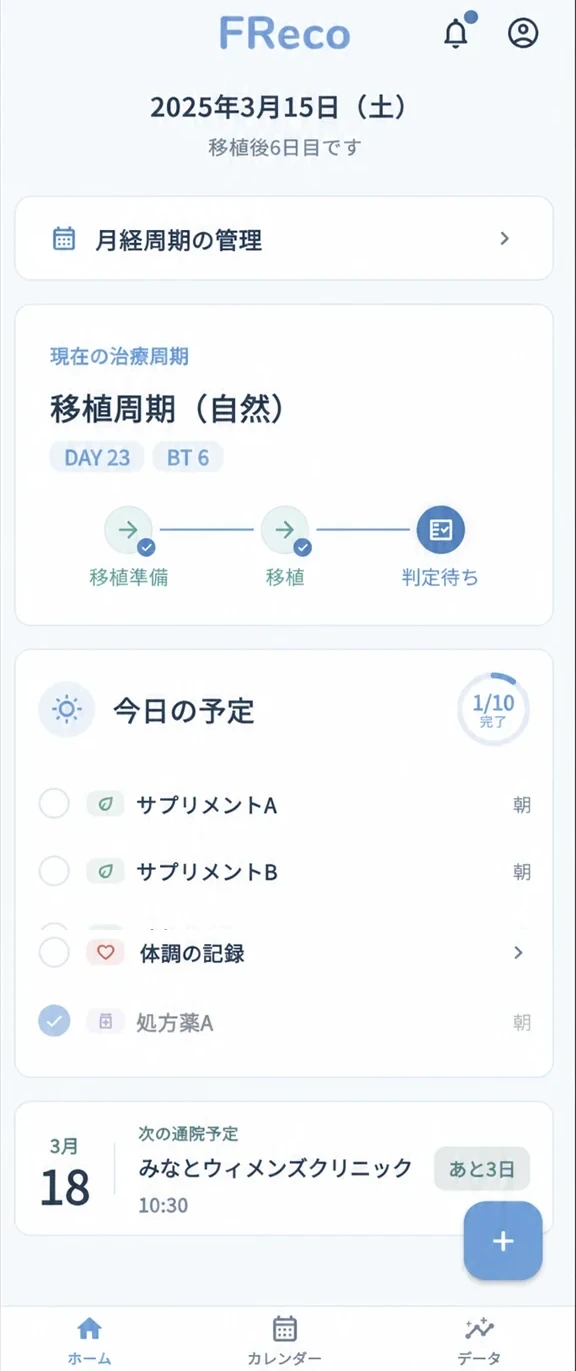
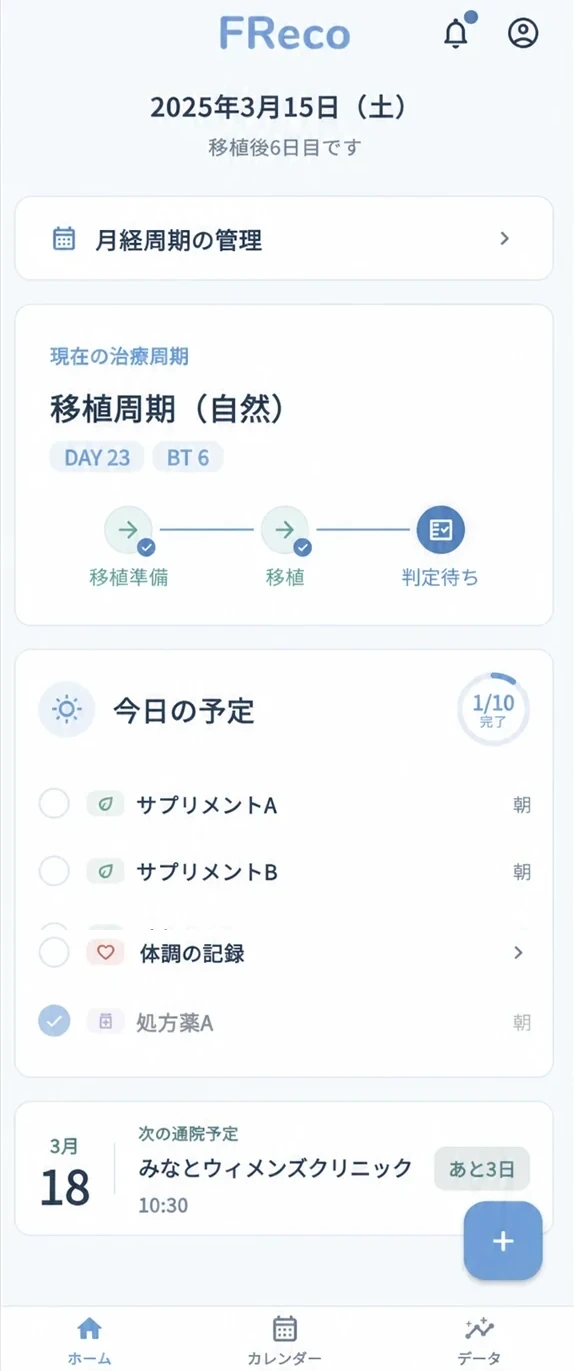
Fix hero screenshot edge

diff --git a/index.html b/index.html
@@ -9,7 +9,7 @@
 <header><div class="header-inner"><a class="logo" href="index.html" aria-label="FReco ホーム"><img src="images/freco_header_lockup.png" alt="FReco"></a><nav aria-label="メインナビゲーション"><a href="#features">できること</a><a href="#faq">よくある質問</a><a class="pill" href="support.html">サポート</a></nav></div></header>
 <main id="main">
 <section class="hero"><div class="hero-inner"><div><p class="label">FERTILITY + RECORD</p><h1>治療の記録を、<br><em>ひとつに。</em></h1><p class="lead">通院、検査、お薬、治療周期、採卵、胚、移植、体調、費用。増えていく不妊治療の記録を、ひとつにまとめて管理できます。</p><div class="store"><span>●</span><div><small>App Storeで</small><strong>近日公開</strong></div></div><p class="note">iPhone向けアプリとして公開予定です</p></div>
-<div class="visual"><div class="device-frame hero-device"><span class="device-speaker" aria-hidden="true"></span><img class="hero-shot" src="images/screenshots/home.webp" alt="FRecoホーム画面。現在の治療周期、今日の予定、次回通院を一覧で確認できます" width="576" height="1371" fetchpriority="high"></div></div></div></section>
+<div class="visual"><div class="device-frame hero-device"><span class="device-speaker" aria-hidden="true"></span><img class="hero-shot" src="images/screenshots/home.webp" alt="FRecoホーム画面。現在の治療周期、今日の予定、次回通院を一覧で確認できます" width="574" height="1371" fetchpriority="high"></div></div></div></section>
 <section class="section white"><div class="narrow center"><p class="label">ABOUT FReco</p><h2>治療中の情報を、<br class="mobile">探さなくていい毎日へ。</h2><p>不妊治療では、予定や結果、服薬など多くの情報が少しずつ増えていきます。FRecoは、散らばりがちな記録を整理し、必要なときにすぐ振り返るためのアプリです。</p><div class="steps"><span>記録する</span>→<span>整理する</span>→<span>振り返る</span></div></div></section>
 <section class="section pale"><div class="inner problem"><div><p class="label">YOUR RECORDS</p><h2>こんなこと、<br>ありませんか？</h2></div><div class="questions"><p><i>01</i>前回の検査結果、どこに記録したっけ？</p><p><i>02</i>この薬はいつからいつまで飲んだ？</p><p><i>03</i>今周期と前周期の記録を見比べたい。</p><p><i>04</i>採卵した胚の情報をまとめて確認したい。</p><p><i>05</i>これまで治療にいくら使ったか知りたい。</p></div></div></section>
 <section class="answer"><div class="inner center"><b class="mark">F</b><p class="label">FRecoなら</p><h2>治療に関する記録を、<span class="nowrap">ひとつの場所に。</span></h2><p>今の状況も、これまでの経過も。必要なときに、すぐ振り返れます。</p></div></section>
